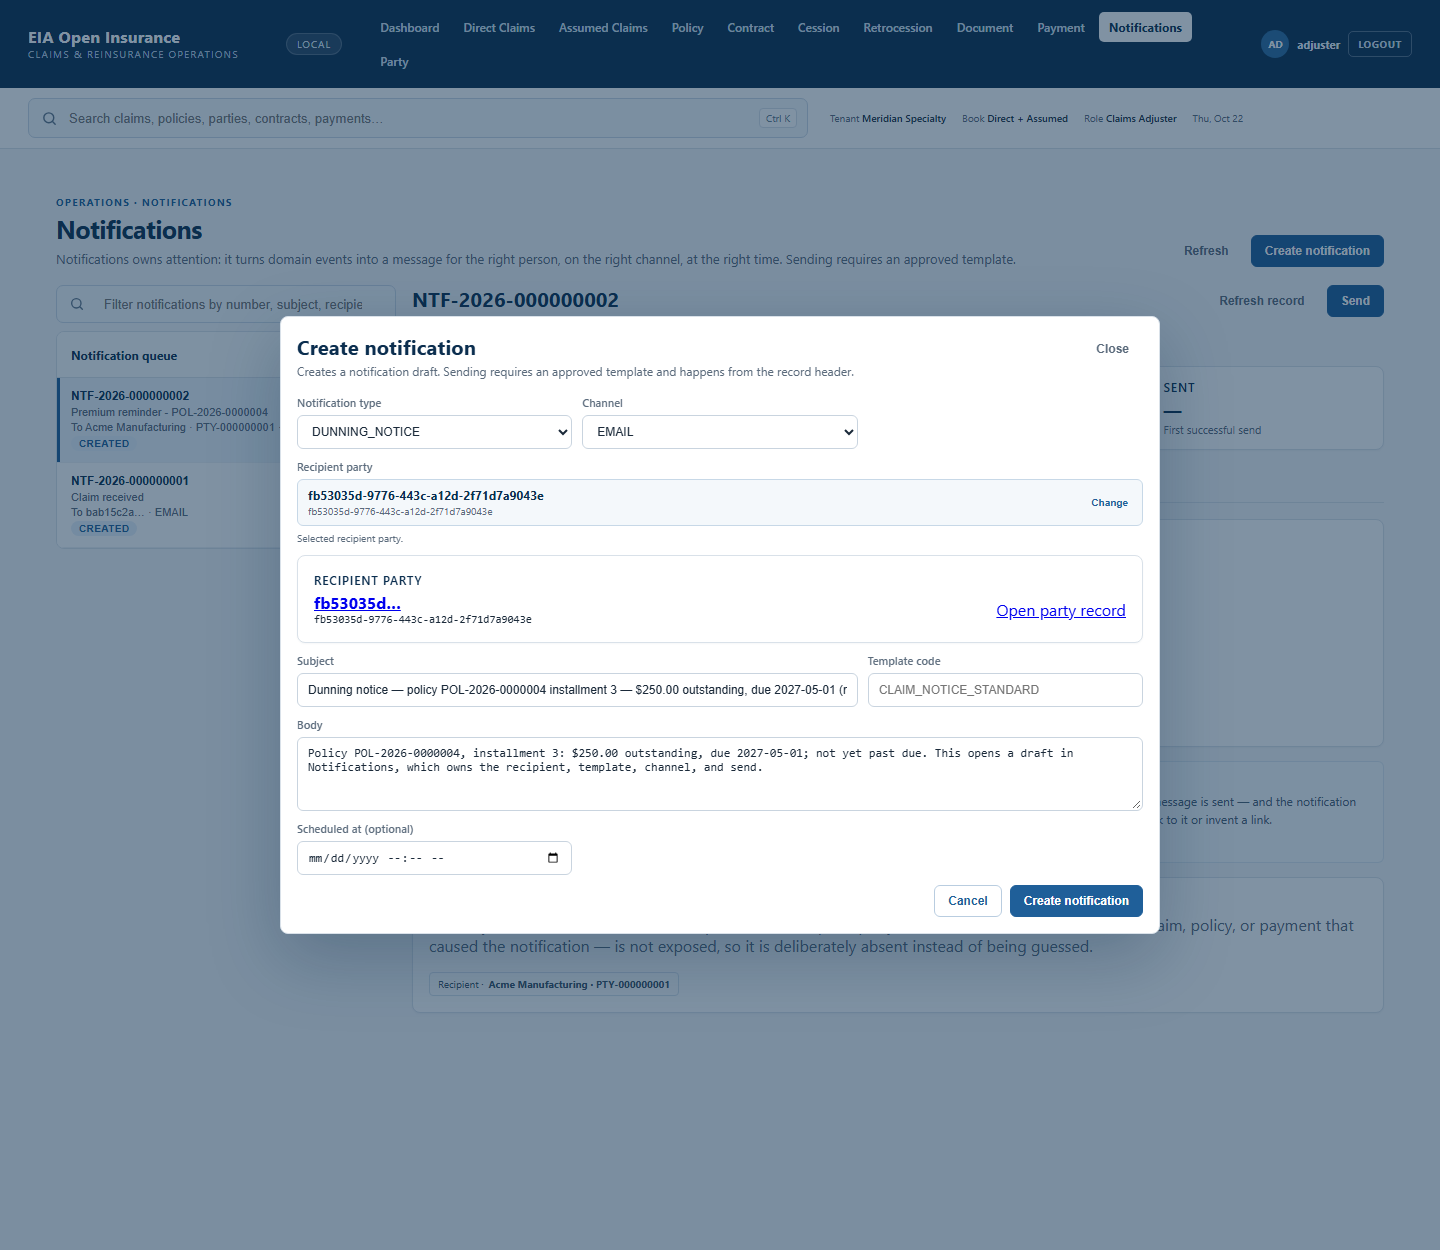
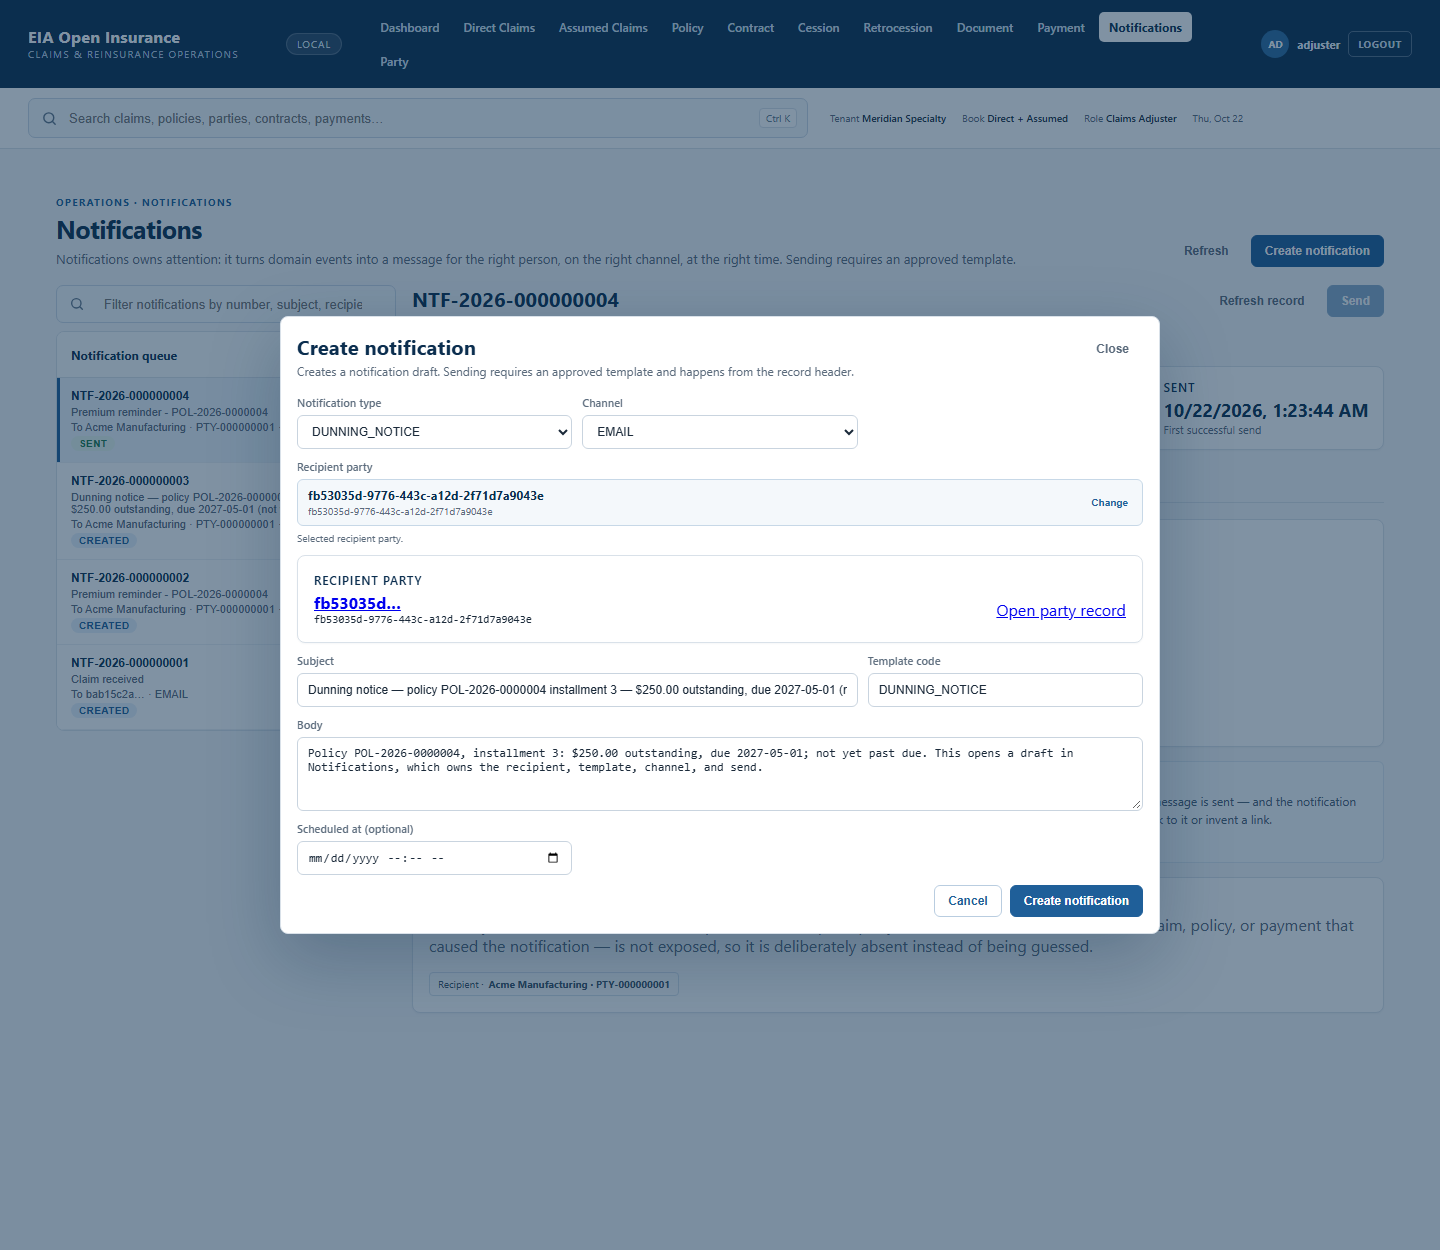
docs: record sendable dunning notice

diff --git a/docs/EVIDENCE.md b/docs/EVIDENCE.md
@@ -678,8 +678,9 @@ exit code: 0
 ## Round 63: dunning notice handoff
 
 - DUNNING_NOTICE added to notifications expert/domain/contract and UI.
-- Notifications create accepts the type without a template (template code left empty rather than binding an unregistered template).
+- DUNNING_NOTICE template v1 is seeded ACTIVE, so the draft binds an approved template and send succeeds.
 - Notification create URL supports prefill (type, channel, recipient, subject, body, template code).
 - Shell receivables expose Compose notice for receivables with dunning history; URL carries policy, installment, outstanding, due date/days past due.
-- Live: Compose notice opened a prefilled DUNNING_NOTICE/EMAIL draft; Create notification succeeded.
+- Live: Compose notice opened a prefilled DUNNING_NOTICE/EMAIL draft with the template bound; Created NTF-2026-000000004 and sent it successfully (SENT).
 - Full matrix: 298 suites, 3,103 tests; contracts 14,069 checks; 211 events; live 17/17.
+

diff --git a/docs/KUBERNETES_EVIDENCE.md b/docs/KUBERNETES_EVIDENCE.md
@@ -989,7 +989,8 @@ Premium dunning can launch a notice draft:
 - subject/body include policy, installment, outstanding amount, due date, days past due
 - Notifications owns recipient, template, channel, and send
 - the draft is not created or sent by the handoff
-- template code is left empty so an unregistered claim template is not bound
-- the user confirms Create notification
+- template DUNNING_NOTICE v1 is seeded ACTIVE and bound
+- the user confirms Create notification; send then succeeds
 
-Live: Compose notice from POL-2026-0000004 opened a prefilled DUNNING_NOTICE/EMAIL draft; Create notification returned a new NTF.
+Live: Compose notice from POL-2026-0000004 opened a prefilled DUNNING_NOTICE/EMAIL draft with the template bound; NTF-2026-000000004 was created and sent (SENT).
+

diff --git a/docs/PROGRESS.md b/docs/PROGRESS.md
@@ -372,3 +372,7 @@
 
 - DUNNING_NOTICE type and prefilled notification draft from receivables.
 - 298 suites, 3,103 tests; contracts 14,069 checks; live 17/17.
+
+## Round 63 (cont.): dunning template
+
+- Seeded ACTIVE DUNNING_NOTICE template v1; handoff binds it; create + send succeed.
